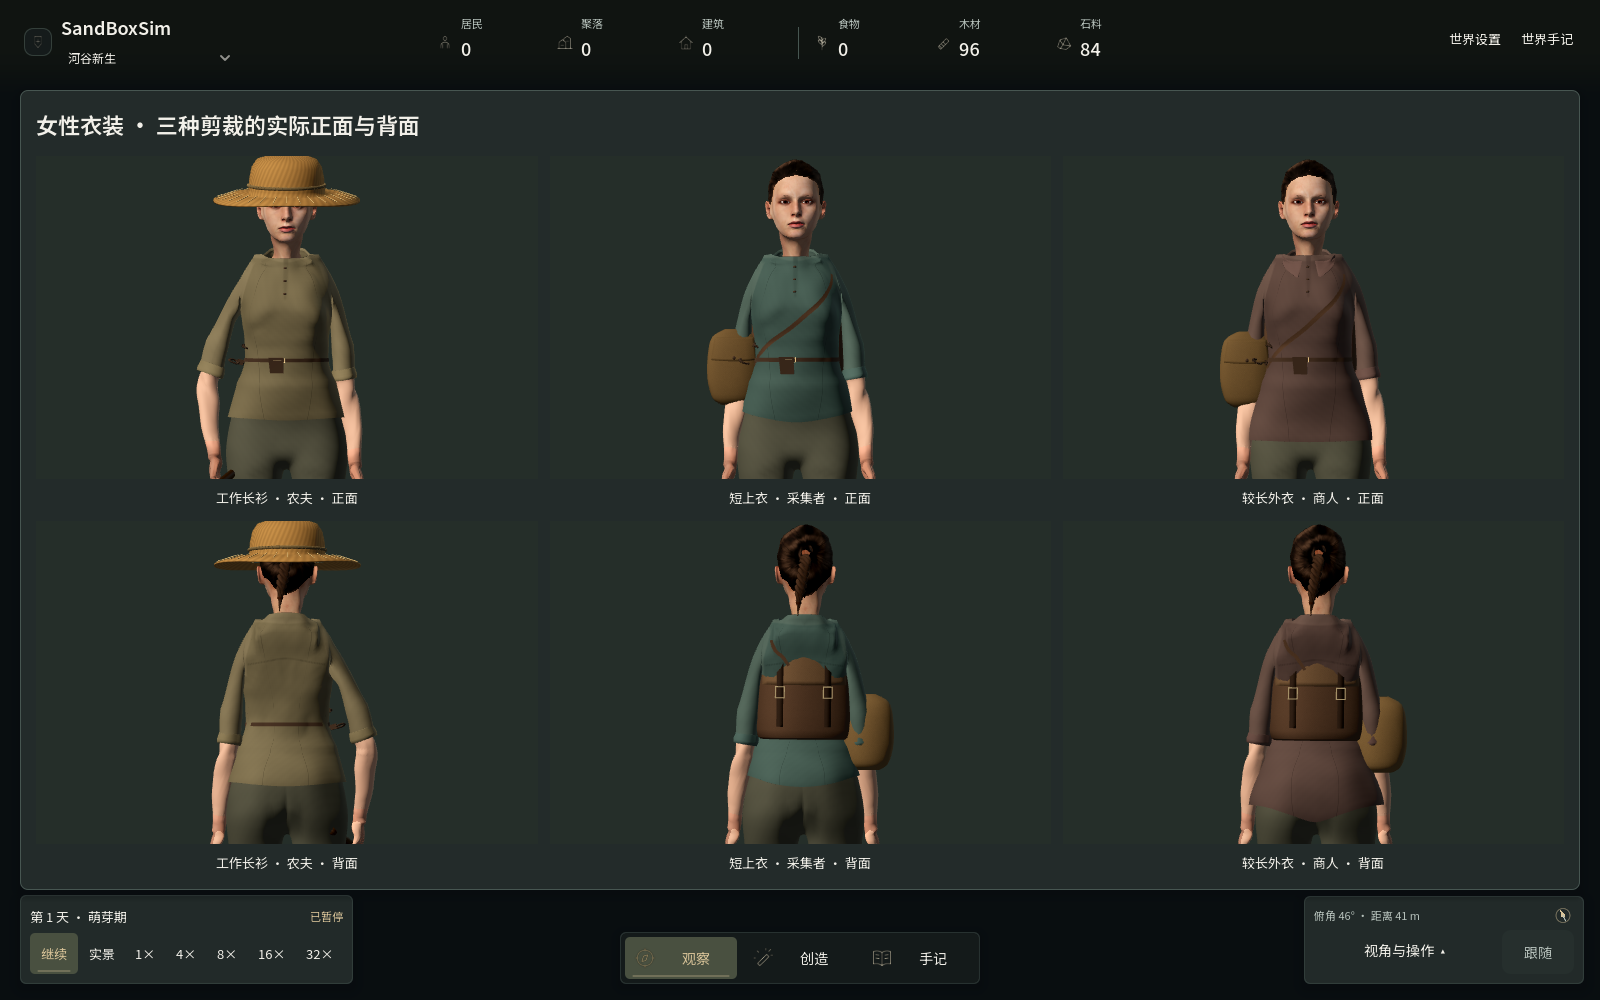
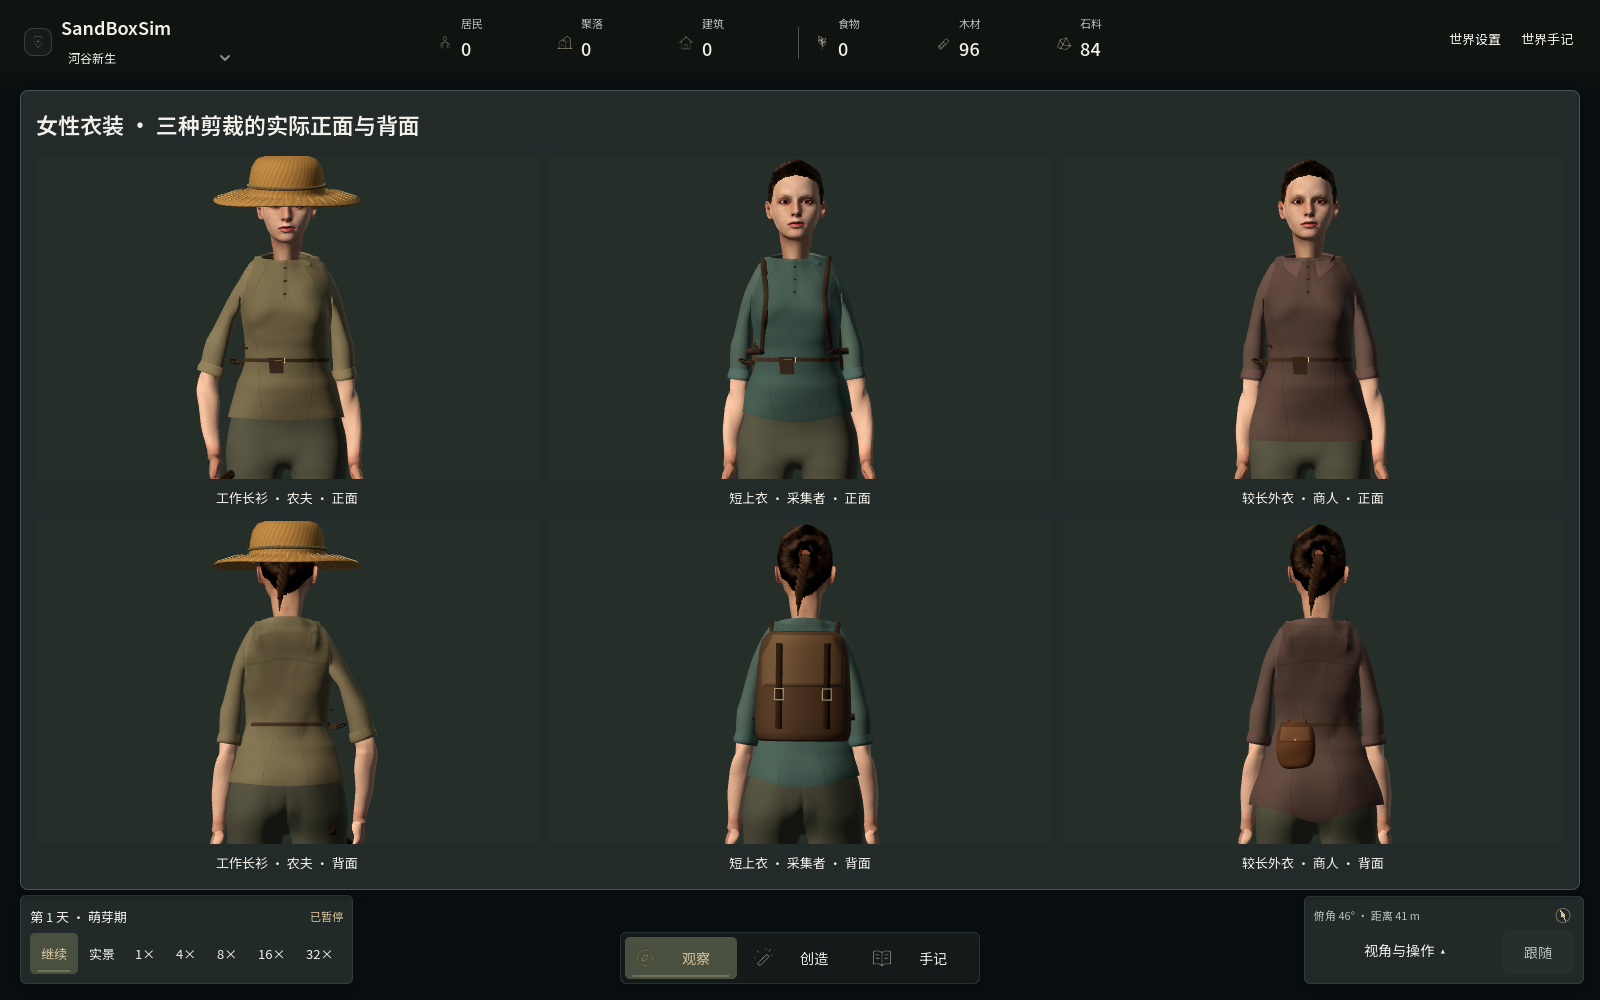
Refit female waist drape and give each trade supported carry gear

diff --git a/src/SandBoxSim.Godot/NatureModels.CarryGear.cs b/src/SandBoxSim.Godot/NatureModels.CarryGear.cs
@@ -1,0 +1,213 @@
+using System;
+using System.Collections.Generic;
+using Godot;
+using SandBoxSim.Core.Agents;
+
+namespace SandBoxSim.Client;
+
+internal sealed partial class NatureModels
+{
+    private readonly record struct StrapStation(Vector3 Centre,Vector3 Outward,float Pelvis);
+
+    private void AddFemaleCarryGear(ResidentRig rig,JobType job)
+    {
+        if(rig.PackMount==null&&job!=JobType.Trader)return;
+        var cloth=rig.DetailedBodyMesh.SurfaceGetArrays(0);
+        var points=cloth[(int)Mesh.ArrayType.Vertex].AsVector3Array();
+        var indices=cloth[(int)Mesh.ArrayType.Index].AsInt32Array();
+        if(rig.PackMount is {} pack)
+        {
+            // Keep the rigid pack in the chest frame. Both shoulder loops
+            // terminate at that same pack rather than across the front belt.
+            pack.Position=new Vector3(0,1.114f,pack.Position.Z);
+            var shell=pack.GetChild<MeshInstance3D>(0);
+            float back=float.NegativeInfinity;
+            foreach(var vertex in shell.Mesh.SurfaceGetArrays(0)[(int)Mesh.ArrayType.Vertex].AsVector3Array())
+            {
+                var local=shell.Transform*vertex;
+                float garment=GarmentDepth(points,indices,local.X,pack.Position.Y+local.Y,true);
+                if(float.IsFinite(garment))back=MathF.Max(back,garment-local.Z);
+            }
+            if(!float.IsFinite(back))throw new InvalidOperationException("Gatherer's pack misses the fitted back panel");
+            pack.Position=new(0,pack.Position.Y,back+.004f);
+            var harness=new MeshInstance3D {Name="FittedPackHarness",Mesh=FemalePackHarness(pack.Position,points,indices),
+                Skin=rig.DetailedBodySkin,Skeleton=new NodePath("../ShoulderSkeleton")};
+            rig.Torso.AddChild(harness);
+        }
+        else
+        {
+            const float x=-.053f,y=.952f;
+            float belt=GarmentDepth(points,indices,x,1.010f,true);
+            float panel=GarmentDepth(points,indices,x,y,true);
+            if(!float.IsFinite(belt)||!float.IsFinite(panel))throw new InvalidOperationException("Trader's pouch misses the fitted waist");
+            var pouch=rig.SatchelMount=new Node3D {Name="BeltPouch",Position=new(x,y,MathF.Max(panel,belt)+.025f),Rotation=new(0,MathF.PI,0)};
+            rig.Torso.AddChild(pouch);
+            var leather=new Node3D {Name="LeatherCase",Scale=new Vector3(.71f,.62f,.53f)};
+            pouch.AddChild(leather);
+            Sculpt(leather,SatchelBody(),Vector3.Zero,LeatherSurface("#6e503b"),new(-MathF.PI/2,0,0));
+            Sculpt(leather,SatchelFlap(),Vector3.Zero,LeatherSurface("#806048"));
+            Detail(leather,"sphere",new(0,.030f,SatchelDepth(0,.030f)-.005f),new(.010f,.010f,.008f),"#9d8254");
+            foreach(float side in new[]{-1f,1f})
+            {
+                // Two folded tabs run from the back of the pouch across the
+                // physical belt and turn down inside it.
+                float offset=side*.024f;
+                float clothDepth=pouch.Position.Z-GarmentDepth(points,indices,x-offset,1.010f,true);
+                float leatherDepth=clothDepth-.006f;
+                FineBeam(pouch,new(offset,.035f,.015f),new(offset,.069f,leatherDepth),.010f,"#5e4636");
+                FineBeam(pouch,new(offset,.069f,leatherDepth),new(offset,.069f,clothDepth+.001f),.010f,"#5e4636");
+                FineBeam(pouch,new(offset,.069f,clothDepth+.001f),new(offset,.050f,clothDepth+.001f),.010f,"#5e4636");
+            }
+        }
+    }
+
+    private Mesh FemalePackHarness(Vector3 pack,Vector3[] points,int[] indices)
+    {
+        string key="female-pack-harness:"+_garmentCut;
+        if(_meshes.TryGetValue(key,out var mesh))return mesh;
+        using var surface=new SurfaceTool();
+        surface.Begin(Mesh.PrimitiveType.Triangles);
+        surface.SetMaterial(LeatherSurface("#51443a"));
+        var rotated=new Vector3[points.Length];
+        Vector3 Contact(Vector3 origin,Vector3 normal)
+        {
+            var across=Vector3.Up.Cross(normal);
+            if(across.LengthSquared()<.001f)across=Vector3.Right;
+            across=across.Normalized();
+            var tangent=normal.Cross(across);
+            for(int i=0;i<points.Length;i++)
+            {
+                var p=points[i]-origin;
+                rotated[i]=new(p.Dot(across),p.Dot(tangent),p.Dot(normal));
+            }
+            float depth=GarmentDepth(rotated,indices,0,0,true);
+            if(!float.IsFinite(depth)||depth<=0)throw new InvalidOperationException($"Shoulder strap misses the fitted garment at {origin}/{normal}");
+            return origin+normal*(depth+.004f);
+        }
+        foreach(float side in new[]{-1f,1f})
+        {
+            var path=new List<StrapStation>();
+            void Add(Vector3 origin,Vector3 outward)
+            {
+                var centre=Contact(origin,outward);
+                path.Add(new(centre,outward,ResidentRig.PelvicClothWeight(centre.Y)));
+            }
+            float x=side*.077f;
+            float packWeight=ResidentRig.PelvicClothWeight(pack.Y);
+            path.Add(new(pack+new Vector3(x,.086f,-.023f),Vector3.Back,packWeight));
+            for(int i=0;i<=24;i++)
+            {
+                float angle=i*MathF.PI/24;
+                Add(new(side*(.077f+.010f*MathF.Sin(angle)),1.181f,0),new(0,MathF.Sin(angle),MathF.Cos(angle)));
+            }
+            for(int i=1;i<=20;i++)
+            {
+                float t=i/20f;
+                Add(new(side*Mathf.Lerp(.077f,.091f,t),Mathf.Lerp(1.181f,1.032f,t),0),Vector3.Forward);
+            }
+            float from=MathF.Atan2(path[^1].Centre.Z,MathF.Abs(path[^1].Centre.X));
+            for(int i=1;i<=20;i++)
+            {
+                float angle=Mathf.Lerp(from,.80f,i/20f);
+                Add(new(0,1.032f,0),new(side*MathF.Cos(angle),0,MathF.Sin(angle)));
+            }
+            path.Add(new(pack+new Vector3(side*.082f,-.108f,-.027f),Vector3.Back,packWeight));
+            var edges=new Vector3[path.Count];
+            for(int i=0;i<path.Count;i++)
+            {
+                var along=path[Math.Min(i+1,path.Count-1)].Centre-path[Math.Max(0,i-1)].Centre;
+                edges[i]=along.Cross(path[i].Outward).Normalized()*.009f;
+            }
+            Vector3 At(int row,int edge,bool inside)=>path[row].Centre+edge*edges[row]-(inside?path[row].Outward*.0025f:Vector3.Zero);
+            void Triangle((int Row,int Edge,bool Inside) a,(int Row,int Edge,bool Inside) b,(int Row,int Edge,bool Inside) c,Vector3 normal)
+            {
+                var p=At(a.Row,a.Edge,a.Inside);var q=At(b.Row,b.Edge,b.Inside);var r=At(c.Row,c.Edge,c.Inside);
+                if((q-p).Cross(r-p).Dot(normal)>0)(b,c)=(c,b);
+                foreach(var v in new[]{a,b,c})
+                {
+                    float pelvis=path[v.Row].Pelvis;
+                    surface.SetBones(new[]{0,3,0,0});surface.SetWeights(new[]{1-pelvis,pelvis,0f,0f});
+                    surface.SetUV(new((v.Edge+1)*.5f,v.Row*.15f));
+                    surface.AddVertex(At(v.Row,v.Edge,v.Inside));
+                }
+            }
+            for(int i=0;i<path.Count-1;i++)
+            {
+                foreach(bool inside in new[]{false,true})
+                {
+                    var normal=path[i].Outward*(inside?-1:1);
+                    Triangle((i,-1,inside),(i,1,inside),(i+1,-1,inside),normal);
+                    Triangle((i,1,inside),(i+1,1,inside),(i+1,-1,inside),normal);
+                }
+                foreach(int edge in new[]{-1,1})
+                {
+                    Triangle((i,edge,false),(i+1,edge,false),(i,edge,true),edge*edges[i]);
+                    Triangle((i,edge,true),(i+1,edge,false),(i+1,edge,true),edge*edges[i]);
+                }
+            }
+        }
+        surface.GenerateNormals();surface.Index();
+        return _meshes[key]=surface.Commit();
+    }
+
+    private void ValidateFemaleCarryGear(ResidentRig gatherer)
+    {
+        var pack=gatherer.PackMount??throw new InvalidOperationException("Missing fitted gathering pack");
+        var harness=gatherer.Torso.GetNode<MeshInstance3D>("FittedPackHarness");
+        var straps=harness.Mesh.SurfaceGetArrays(0);
+        var strapPoints=straps[(int)Mesh.ArrayType.Vertex].AsVector3Array();
+        var skinWeights=straps[(int)Mesh.ArrayType.Weights].AsFloat32Array();
+        foreach(float side in new[]{-1f,1f})
+        {
+            var top=pack.Position+new Vector3(side*.077f,.086f,-.023f);
+            var bottom=pack.Position+new Vector3(side*.082f,-.108f,-.027f);
+            foreach(var anchor in new[]{top,bottom})
+            {
+                float distance=float.PositiveInfinity;
+                foreach(var p in strapPoints)distance=MathF.Min(distance,p.DistanceTo(anchor));
+                if(distance>.011f)throw new InvalidOperationException("Shoulder harness separates from a pack anchor");
+            }
+        }
+        if(harness.Skin!=gatherer.DetailedBodySkin||skinWeights.Length!=strapPoints.Length*4)
+            throw new InvalidOperationException("Gathering straps lose their cloth pose");
+
+        int previous=_faceVariant,cut=_garmentCut;
+        var trader=Resident(42,false,JobType.Trader);
+        try
+        {
+            var pouch=trader.SatchelMount??throw new InvalidOperationException("Missing trader's belt pouch");
+            if(trader.PackMount!=null||pouch.Scale!=Vector3.One||pouch.GetChildCount()!=7)
+                throw new InvalidOperationException("Trading gear loses its rigid pouch and folded belt tabs");
+            var body=pouch.GetNode<Node3D>("LeatherCase").GetChild<MeshInstance3D>(0);
+            var local=InTorso(body,pouch);
+            var points=body.Mesh.SurfaceGetArrays(0)[(int)Mesh.ArrayType.Vertex].AsVector3Array();
+            var bounds=new Aabb(local*points[0],Vector3.Zero);
+            foreach(var p in points)bounds=bounds.Expand(local*p);
+            bounds=bounds.Grow(.012f);
+            int probes=0;
+            foreach(var action in new[]{ActionKind.Wander,ActionKind.Take,ActionKind.Trade,ActionKind.Socialize,ActionKind.Eat})
+                for(int tick=0;tick<120;tick++)
+                {
+                    trader.PoseAction(1f/60,action,action==ActionKind.Wander?ActionPhase.Moving:ActionPhase.Executing,false,0);
+                    if(tick%10!=0)continue;
+                    for(int side=0;side<2;side++)
+                    {
+                        var upper=InTorso(trader.Arms[side],trader.Torso).Origin;
+                        var elbow=InTorso(trader.Elbows[side],trader.Torso).Origin;
+                        var wrist=InTorso(trader.Hands[side],trader.Torso).Origin;
+                        var palm=InTorso(trader.Hands[side],trader.Torso)*new Vector3(0,-.06f,0);
+                        var inverse=pouch.Transform.AffineInverse();
+                        for(int step=0;step<=12;step++)
+                        {
+                            float t=step/12f;
+                            if(bounds.HasPoint(inverse*upper.Lerp(elbow,t))||bounds.HasPoint(inverse*elbow.Lerp(wrist,t))||bounds.HasPoint(inverse*wrist.Lerp(palm,t)))
+                                throw new InvalidOperationException($"Trader's waist pouch enters the arm path during {action}, frame={tick}, side={side}, station={step}");
+                            probes+=3;
+                        }
+                    }
+                }
+            GD.Print($"FEMALE_CARRY_GEAR_PASS: four pack strap anchors, skinned harness, two belt tabs and {probes} trader arm clearance samples");
+        }
+        finally{trader.Free();_faceVariant=previous;_facePoints=null;_faceIndices=null;SelectGarmentCut(cut);}
+    }
+}

diff --git a/src/SandBoxSim.Godot/NatureModels.BodyFrame.cs b/src/SandBoxSim.Godot/NatureModels.BodyFrame.cs
@@ -467,7 +467,6 @@ internal sealed partial class NatureModels
         }
         rig.ShoulderSkeleton.ResetBonePoses();rig.DetailedBodySkin=skin;rig.BodySkin.Skin=skin;
         FitArmClothing(rig);
-        rig.CaptureBodyMounts();
     }
     public void ValidateBodyFrames()
     {
@@ -642,9 +641,9 @@ internal sealed partial class NatureModels
             for(int side=0;side<2;side++)
                 if(!(female.ShoulderSkeleton.GetBoneRest(side+1)*female.DetailedBodySkin.GetBindPose(side+1)).IsEqualApprox(Transform3D.Identity))
                     throw new InvalidOperationException("Fitted shoulder rest and inverse bind disagree");
-            if(male.SatchelMount==null||female.SatchelMount==null||male.SatchelMount.Scale!=Vector3.One||female.SatchelMount.Scale!=Vector3.One||
-                male.SatchelMount.GetChild<MeshInstance3D>(0).Mesh.GetAabb()!=female.SatchelMount.GetChild<MeshInstance3D>(0).Mesh.GetAabb())
-                throw new InvalidOperationException("Body fitting stretches the rigid satchel instead of adapting its mount");
+            if(male.SatchelMount==null||male.SatchelMount.Scale!=Vector3.One||female.SatchelMount!=null||female.PackMount==null)
+                throw new InvalidOperationException("Gathering equipment loses its fitted adult carry layout");
+            ValidateFemaleCarryGear(female);
             foreach(var rig in new[]{male,female})
                 if(MathF.Abs(rig.Scale.X-rig.Scale.Y)>.00001f||MathF.Abs(rig.Scale.X-rig.Scale.Z)>.00001f||rig.Head.Scale.X<.98f||rig.Head.Scale.X>1.04f)
                     throw new InvalidOperationException("Stature scaling distorts the adult body or head proportions");

diff --git a/src/SandBoxSim.Godot/NatureModels.GarmentDrape.cs b/src/SandBoxSim.Godot/NatureModels.GarmentDrape.cs
@@ -254,7 +254,17 @@ internal sealed partial class NatureModels
         // Their support is the waistband, so they fade out above it.
         float below=1-Mathf.SmoothStep(belt-.015f,belt+.025f,height);
         float hem=.0020f*MathF.Cos(angle*8+.25f)*below;
-        if(FittedFigure){hem*=.45f;backPleat*=.65f;}
+        if(FittedFigure)
+        {
+            backPleat*=.65f;
+            // Two shallow releases below the waist follow the bias of the
+            // actual cut. The loose outer cloth bridges the hip underneath.
+            float release=TorsoRamp(.023f,.120f,-above)*TorsoRamp(.760f,.835f,height);
+            float flank=MathF.Abs(x),grain=Mathf.Lerp(.43f,.62f,release);
+            float fall=Bell(flank-grain,.135f)*front*front+Bell(flank-(.56f-.11f*release),.17f)*back*back;
+            float clothEase=_garmentCut==2?.0045f:_garmentCut==1?.0027f:.0020f;
+            hem=clothEase*release*fall;
+        }
         float clearNeck=1-Mathf.SmoothStep(1.18f,1.22f,height);
         float sideSeam=1-Mathf.SmoothStep(.90f,1,MathF.Abs(x));
         return Math.Clamp((gathering+axilla+backPleat+hem)*clearNeck*sideSeam,-.003f,.0045f);

diff --git a/src/SandBoxSim.Godot/NatureModels.Residents.cs b/src/SandBoxSim.Godot/NatureModels.Residents.cs
@@ -284,7 +284,12 @@ internal sealed partial class NatureModels
         rig.HeadProxy=new MeshInstance3D {Name="DistantHead",Mesh=DistantHead(skin,hair),Visible=false};rig.Head.AddChild(rig.HeadProxy);
         AddHandSkin(rig,skin);
         ApplyBodyFrame(rig);
-        if(FittedFigure)AddFittedPlacketButtons(rig);
+        if(FittedFigure)
+        {
+            AddFittedPlacketButtons(rig);
+            AddFemaleCarryGear(rig,job);
+        }
+        if(!child)rig.CaptureBodyMounts();
         AddContinuousTrousers(rig);
         rig.Head.Scale=new Vector3(.99f+((variation>>15)%4)*.0125f,.995f+((variation>>18)%3)*.0125f,1);
         if (child) { rig.Scale = new Vector3(.72f, .65f, .72f); rig.Head.Scale = Vector3.One * 1.15f; }

diff --git a/src/SandBoxSim.Godot/NatureModels.Equipment.cs b/src/SandBoxSim.Godot/NatureModels.Equipment.cs
@@ -178,7 +178,7 @@ ROUGHNESS = 0.93; SPECULAR = 0.18;
             Sculpt(rig.Torso,FittedRibbon(job==JobType.Soldier?"armor":"apron",job==JobType.Soldier?.91f:.79f,1.17f),Vector3.Zero,ResidentMaterial(job==JobType.Soldier?"#7d8581":"#75654f"));
         }
         AddHandTools(rig,job);
-        if(job is JobType.Gatherer or JobType.Hunter or JobType.Trader)
+        if((job is JobType.Gatherer or JobType.Hunter or JobType.Trader)&&(!FittedFigure||job!=JobType.Trader))
         {
             rig.PackMount=new Node3D {Name="PackMount",Position=new(0,1.02f,TorsoSurface(0,1.02f,true).Z+.066f)};rig.Torso.AddChild(rig.PackMount);
             Sculpt(rig.PackMount,PackBody(),Vector3.Zero,LeatherSurface("#665141"),new(-MathF.PI/2,0,0));

diff --git a/src/SandBoxSim.Godot/NatureModels.Tailoring.cs b/src/SandBoxSim.Godot/NatureModels.Tailoring.cs
@@ -361,7 +361,7 @@ internal sealed partial class NatureModels
             FineBeam(rig.Torso,TorsoSurface(side*.007f,y,false,.0047f),
                 TorsoSurface(side*.007f,y+.0035f,false,.0047f),.00055f,thread);
         }
-        if(job is JobType.Gatherer or JobType.Hunter or JobType.Trader)
+        if(!FittedFigure&&(job is JobType.Gatherer or JobType.Hunter or JobType.Trader))
         {
             Sculpt(rig.Torso,FittedRibbon("shoulder-front",.81f,1.20f),Vector3.Zero,LeatherSurface("#665141"));
             Sculpt(rig.Torso,FittedRibbon("shoulder-back",.81f,1.20f,true),Vector3.Zero,LeatherSurface("#665141"));

diff --git a/docs/development/models.md b/docs/development/models.md
@@ -191,6 +191,8 @@
 
 三款女性成衣各自使用下摆高度曲线。工作衫沿侧腰放出少量活动余量，下缘接近平直。采集短衣在侧髋抬高，前后保留弧线。商人外套由腰向下逐渐展开，后片比前片更长。余量从已覆盖裤装的外层衣面向外加，接近腰带前逐渐归零。三款染色分别向亚麻褐、灰绿和暖赭调整，混合居民原有颜色。正背面可直接比较同一居民换装后的效果。[女性成衣图册](../images/resident-female-wardrobe.png) · [Colonial Williamsburg 工作短衣藏品](https://emuseum.colonialwilliamsburg.org/objects/7862/jacket) · [腰下展开版型藏品](https://emuseum.colonialwilliamsburg.org/objects/503/jacket)
 
+三款女性衣装的腰下褶线从腰带往髋侧逐渐张开，短衣和长外套分别留出不同的衣量。采集者与猎人的背包贴合实际后衣片，双肩带沿衣面穿过肩部，并绕回背包的上下挂点。商人的薄皮袋用两条翻折挂袢固定在左后腰。`FEMALE_CARRY_GEAR_PASS` 检查背带挂点和蒙皮，以及走路、拾取、交易、交谈和进食时手臂中线相对皮袋包围盒的净空。[工作短衣藏品](https://emuseum.colonialwilliamsburg.org/objects/7862/jacket) · [皮袋与皮质挂点藏品](https://postalmuseum.si.edu/object/npm_2004.2004.17)
+
 女性裤装沿高度每隔 10 毫米读取实际截面。大腿外侧、内缝、膝前和膝后各自分配衣量，前裆到内缝的转折下放最多 8 毫米，靴内的裤脚与髋关节支撑继续使用对应的成品网格。裤缝以到截面中线的有符号距离定位，内外缝跟随实际腿型，针脚细节随距离平滑过渡。静止造型与弯身、行走使用同一网格，髋、膝各自响应姿态。`FEMALE_TROUSER_DRAPE_PASS` 检查成品膝前与膝侧余量、大腿横向余量、前裆曲面和固定裤脚。[女裤三维合体研究](https://journals.sagepub.com/doi/10.1177/0887302X07309479) · [站姿与坐姿下身截面研究](https://pmc.ncbi.nlm.nih.gov/articles/PMC8464815/)
 
 女性后领与上背之间采用局部深度修形。肩袖拟合完成后，后片超出目标弧面的部分逐渐向内收，修形在领口和袖窿前退出。几何法线从成品网格重建，近远景使用相同的静止轮廓。后育克的弧形针脚由衣面的静止坐标驱动，随肩背弯曲。三款衣装的实际成品在背中线及左右 25 毫米的截面上检查后领下方的外突量。造型参考肩颈与肩胛之间的宽缓连接，以及服装在肩部活动时的拉伸与压缩。[肩颈表面结构](https://elsevier-elibrary.com/contents/fullcontent/58090/epubcontent_v2/OEBPS/B9780443069529000126A.htm) · [Blender Studio 衣装形体](https://studio.blender.org/training/realistic-human-research/clothing-shapes/)

diff --git a/docs/images/README.md b/docs/images/README.md
@@ -36,7 +36,7 @@
 |---|---|---|
 | 成人体型与女性衣身 | `visual-body-frames`、`visual-thorax-frames` 第 90 帧，展示胸廓下缘到腰带的垂坠曲面 | [全身三视图](resident-body-frames.png) · [女性衣身](resident-thorax-detail.png) |
 | 成人头脸 | `visual-faces`、`visual-face-frames` 第 90 帧 | [三种头脸](resident-face-detail.png) · [成人外观对照](resident-face-frames.png) |
-| 三种衣装的正背面 | `visual-wardrobe`、`visual-female-wardrobe` 第 90 帧 | [男性成衣](wardrobe-detail.png) · [女性成衣](resident-female-wardrobe.png) |
+| 三种衣装的正背面 | `visual-wardrobe`、`visual-female-wardrobe` 第 90 帧，可对照女性腰下褶线、双肩背包和后腰皮袋 | [男性成衣](wardrobe-detail.png) · [女性成衣](resident-female-wardrobe.png) |
 | 手部、前臂和腕部 | `visual-hands`、`visual-forearm-frames` 第 90 帧，`visual-wrist-motion` 第 150 帧 | [握持](resident-hand-detail.png) · [前臂三视图](resident-forearm-frames.png) · [腕部近景](resident-wrist-motion.png) |
 | 静立、步行与拾取 | `visual-body-motion` 第 105 帧，观察腿部裤型在站立和屈曲时的变化 | [全身姿势](resident-body-motion.png) |
 | 同速步行、搬运和持锤 | `visual-locomotion` 第 180 帧 | [步态对照](resident-style-walk.png) |

diff --git a/CHANGELOG.md b/CHANGELOG.md
@@ -4,6 +4,7 @@
 
 ## 2026-11-06
 
+- 女性衣装的腰下褶线按三款剪裁重新布置。采集者和猎人的双肩背带贴合成衣并接到背包，商人改用挂在后腰的薄皮袋，为手臂活动留出空间。
 - 女性三款上衣重做领口弧线和薄翻边，收顺锁骨上方与肩线的衣面。颈根皮肤向衣内延伸，领口按实际网格检查转头时的间隙和遮盖。
 - 女性裤装按实际腿部截面重塑。膝侧收顺，膝前保留弯曲余量，前裆与内缝的过渡更圆顺。内外裤缝随网格变形。
 - 女性角色高举手臂时，袖内侧压褶和胸侧衣面沿原有支撑收顺。伸手解算在肩位更新后重新对准原始手腕目标，抬臂图册用明确的关节角度展示变形。
